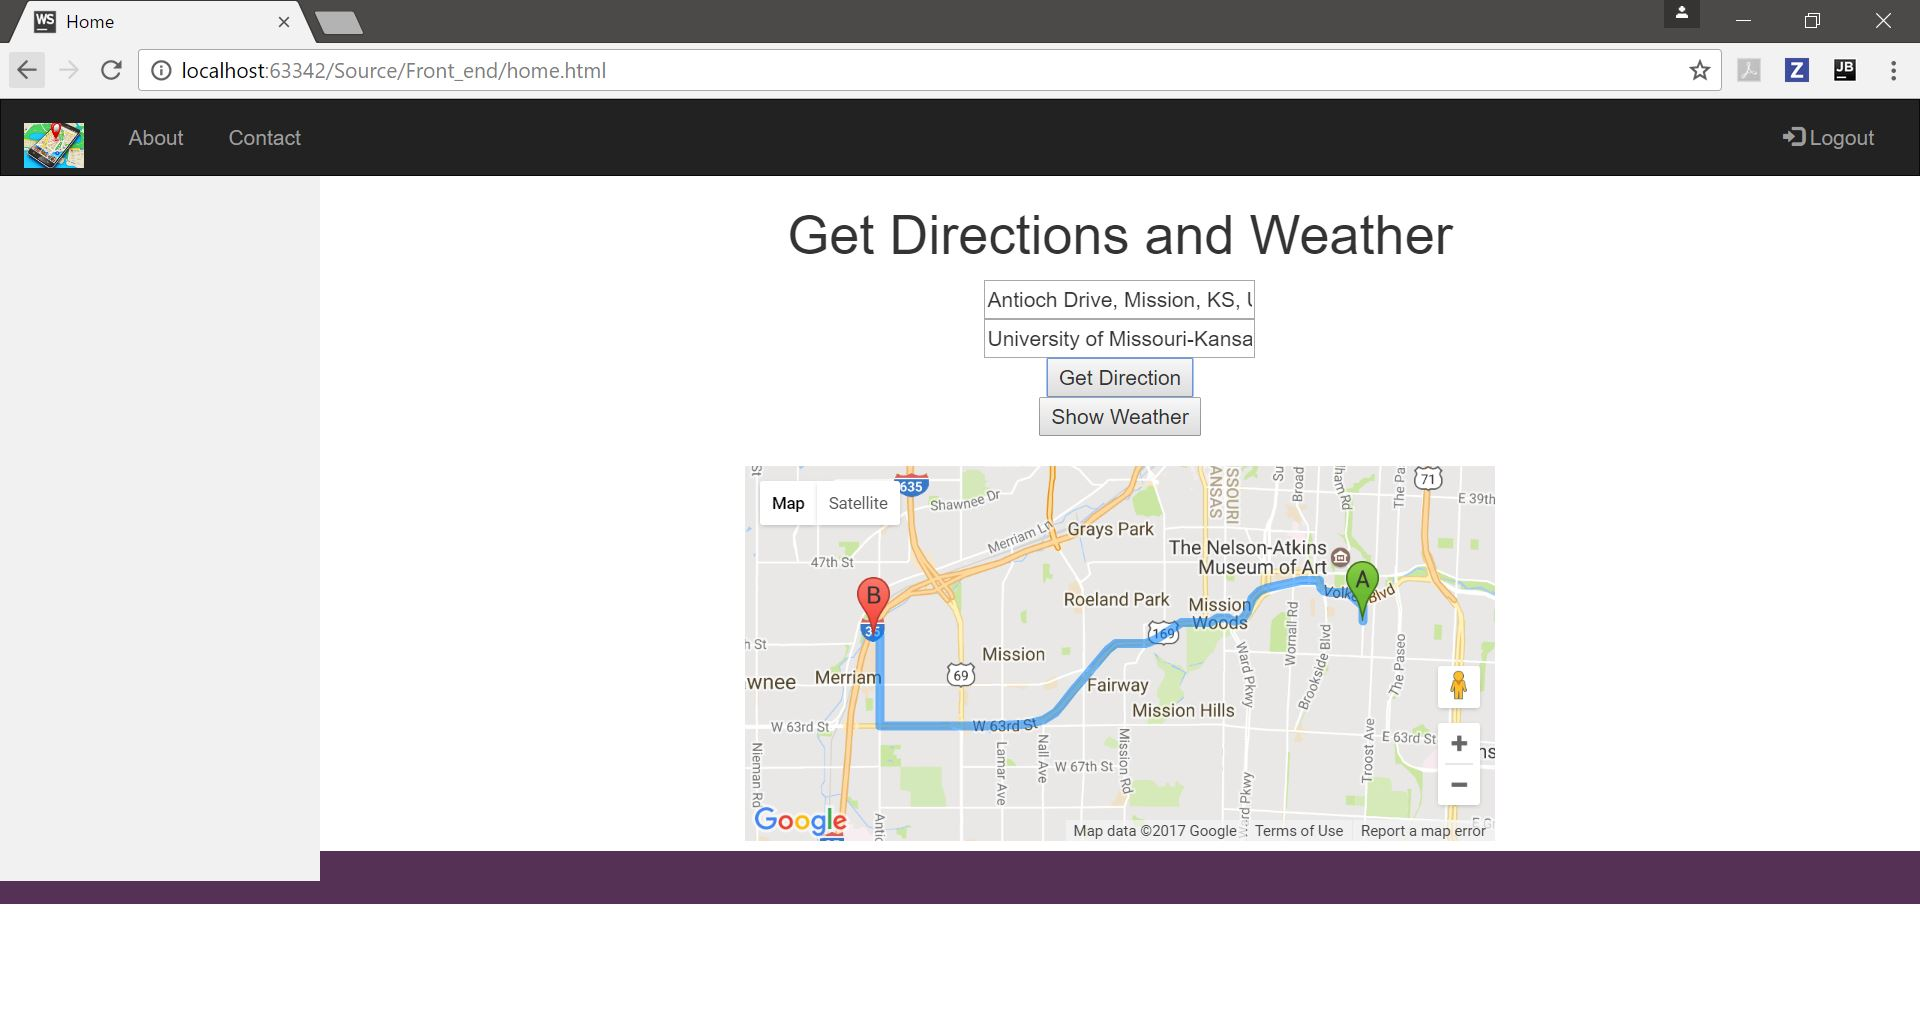
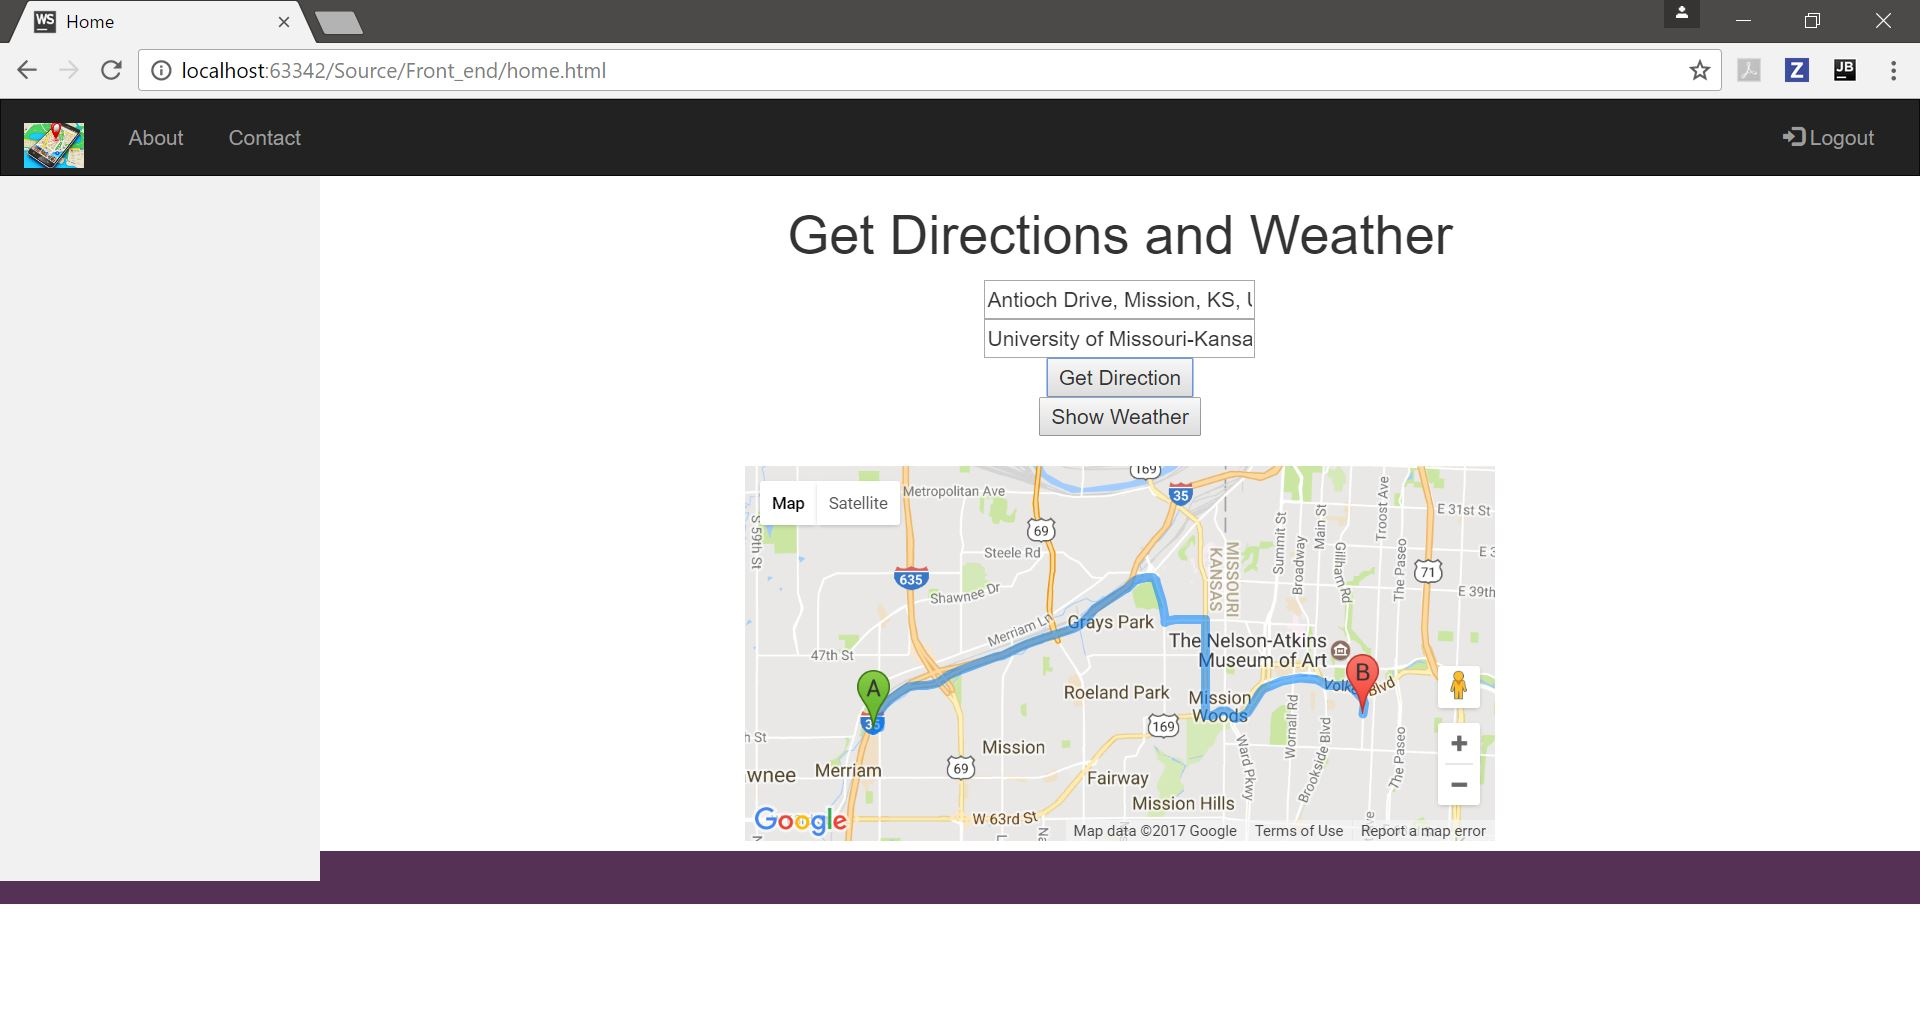
last minute change

Changed region(s): [[0.375, 0.4559, 0.7812, 0.8206]]

diff --git a/Lab2/Source/JS/app.js b/Lab2/Source/JS/app.js
@@ -107,8 +107,8 @@ app.controller("googlemapoutput", function ($scope) {
             mapOptions);
     };
     $scope.calcRoute = function () {
-        var end = document.getElementById('Source').value;
-        var start = document.getElementById('Destination').value;
+        var start = document.getElementById('Source').value;
+        var end = document.getElementById('Destination').value;
 
         var request = {
             origin: start,
